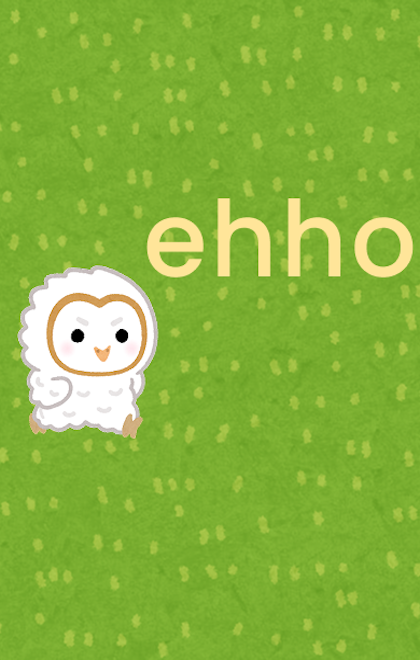
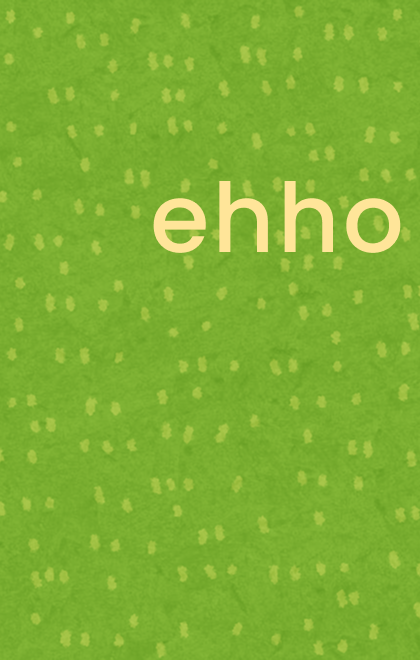
ログインのUI改善。フクロウにアニメーションをつけた。

diff --git a/lib/presentation/screens/auth/login_screen.dart b/lib/presentation/screens/auth/login_screen.dart
@@ -3,114 +3,143 @@ import 'package:flutter_riverpod/flutter_riverpod.dart';
 import 'package:go_router/go_router.dart';
 import 'package:ehho/core/services/login/login_sevice.dart';
 import 'package:ehho/core/services/auth_service.dart';
+import 'dart:math' as math; 
 
 class LoginScreen extends ConsumerWidget {
   const LoginScreen({super.key});
 
   @override
-  Widget build(BuildContext context, WidgetRef ref) {
-    return Scaffold(
-      body: Padding(
-        padding: const EdgeInsets.all(0),
-        child: Column(
-          children: [
-            Positioned.fill(
-              child: Image.asset(
-                'assets/images/background_login.png',
-                fit: BoxFit.cover,
-                // fit: BoxFit.fitWidth,
-              ),
-            ),
-
-            const SizedBox(height: 20),
-
-            //テキスト
-            Align(
-              alignment: Alignment.center,
-              child: Column(
-                mainAxisSize: MainAxisSize.min,
-                children: [
-                  Text(
-                    "ｴｯﾎｴｯﾎ",
-                    style: TextStyle(
-                      fontSize: 14,
-                      fontWeight: FontWeight.normal,
-                    ),
-                  ),
-                  Text(
-                    "ここからログインできるって伝えなきゃ",
-                    style: TextStyle(
-                      fontSize: 16,
-                      fontWeight: FontWeight.normal,
-                    ),
-                  ),
-                  Text(
-                    "ｴｯﾎｴｯﾎ",
-                    style: TextStyle(
-                      fontSize: 14,
-                      fontWeight: FontWeight.normal,
-                    ),
-                  ),
-                ],
-              ),
-            ),
-
-            const SizedBox(height: 20),
-
-            // ログインボタン
-            SizedBox(
-              width: 300,
-              child: ElevatedButton(
-                onPressed: () async {
-                  try {
-                    await ref.read(loginServiceProvider).googleLogin();
-                  } catch (e) {
-                    throw ('Googleログインに失敗しました: $e');
-                  }
-                  final isRegistered =
-                      await ref.read(authServiceProvider).isRegistered();
-                  if (context.mounted) {
-                    if (!isRegistered) {
-                      context.go("/signIn");
-                    } else {
-                      context.go("/home");
-                    }
-                  }
-                },
-
-                style: ElevatedButton.styleFrom(
-                  backgroundColor: Colors.white,
-                  foregroundColor: Colors.black54,
-                  padding: const EdgeInsets.all(5.0),
-                  shape: RoundedRectangleBorder(
-                    borderRadius: BorderRadius.circular(8),
-                  ),
-                ),
-
-                child: Row(
-                  mainAxisAlignment: MainAxisAlignment.center,
-                  children: [
-                    Image.asset(
-                      'assets/images/google_icon.png',
-                      width: 32,
-                      height: 32,
-                    ),
-                    const SizedBox(width: 10),
-                    Text(
-                      "Googleでログイン",
-                      style: TextStyle(
-                        fontSize: 16,
-                        fontWeight: FontWeight.bold,
-                      ),
-                    ),
-                  ],
-                ),
-              ),
-            ),
-            const SizedBox(height: 20),
-          ],
+Widget build(BuildContext context, WidgetRef ref) {
+  return Scaffold(
+    body: Stack(
+      children: [
+        // 背景画像
+        Positioned.fill(
+          child: Image.asset(
+            'assets/images/background_login.png',
+            fit: BoxFit.fitWidth,
+            alignment: Alignment.topCenter,
+          ),
         ),
-      ),
+
+        // フクロウ（上に配置）
+        Positioned(
+          top: 250, // 上からの距離を調整
+          child: AnimatedOwl(),
+        ),
+
+        // ログインUI（中央に配置）
+        Align(
+          alignment: Alignment.bottomCenter,
+          child: Column(
+            mainAxisSize: MainAxisSize.min,
+            children: [
+              Text(
+                "ｴｯﾎｴｯﾎ",
+                style: TextStyle(fontSize: 14, fontWeight: FontWeight.normal),
+              ),
+              Text(
+                "ここからログインできるって伝えなきゃ",
+                style: TextStyle(fontSize: 16, fontWeight: FontWeight.normal),
+              ),
+              Text(
+                "ｴｯﾎｴｯﾎ",
+                style: TextStyle(fontSize: 14, fontWeight: FontWeight.normal),
+              ),
+
+              const SizedBox(height: 10),
+
+              // Googleログインボタン
+              SizedBox(
+                width: 300,
+                child: ElevatedButton(
+                  onPressed: () async {
+                    try {
+                      await ref.read(loginServiceProvider).googleLogin();
+                    } catch (e) {
+                      throw ('Googleログインに失敗しました: $e');
+                    }
+                    final isRegistered =
+                        await ref.read(authServiceProvider).isRegistered();
+                    if (context.mounted) {
+                      if (!isRegistered) {
+                        context.go("/signIn");
+                      } else {
+                        context.go("/home");
+                      }
+                    }
+                  },
+                  style: ElevatedButton.styleFrom(
+                    backgroundColor: Colors.white,
+                    foregroundColor: Colors.black54,
+                    padding: const EdgeInsets.all(5.0),
+                    shape: RoundedRectangleBorder(
+                      borderRadius: BorderRadius.circular(8),
+                    ),
+                  ),
+                  child: Row(
+                    mainAxisAlignment: MainAxisAlignment.center,
+                    children: [
+                      Image.asset(
+                        'assets/images/google_icon.png',
+                        width: 32,
+                        height: 32,
+                      ),
+                      const SizedBox(width: 10),
+                      Text(
+                        "Googleでログイン",
+                        style: TextStyle(
+                          fontSize: 16,
+                          fontWeight: FontWeight.bold,
+                        ),
+                      ),
+                    ],
+                  ),
+                ),
+              ),
+              const SizedBox(height: 130),
+            ],
+          ),
+        ),
+      ],
+    ),
+  );
+}
+
+}
+
+
+class AnimatedOwl extends StatefulWidget {
+  @override
+  _AnimatedOwlState createState() => _AnimatedOwlState();
+}
+
+class _AnimatedOwlState extends State<AnimatedOwl> {
+  double rotationAngle = 0;
+  bool toggle = true; // どちらの方向に動かすかのフラグ
+
+  @override
+  Widget build(BuildContext context) {
+    return TweenAnimationBuilder<double>(
+      tween: Tween<double>(begin: rotationAngle, end: toggle ? 15 * math.pi / 180 : -15 * math.pi / 180),
+      duration: const Duration(milliseconds: 500),
+      curve: Curves.easeInOut, // スムーズな動きを追加
+      builder: (BuildContext context, double value, Widget? child) {
+        return Transform.rotate(
+          angle: value,
+          child: Image.asset(
+            'assets/images/ehho_nomal.png',
+            width: 200,
+            height: 200,
+          ),
+        );
+      },
+      onEnd: () {
+        setState(() {
+          toggle = !toggle; // 方向を反転
+          rotationAngle = toggle ? 15 * math.pi / 180 : -15 * math.pi / 180;
+        });
+      },
     );
   }
 }
